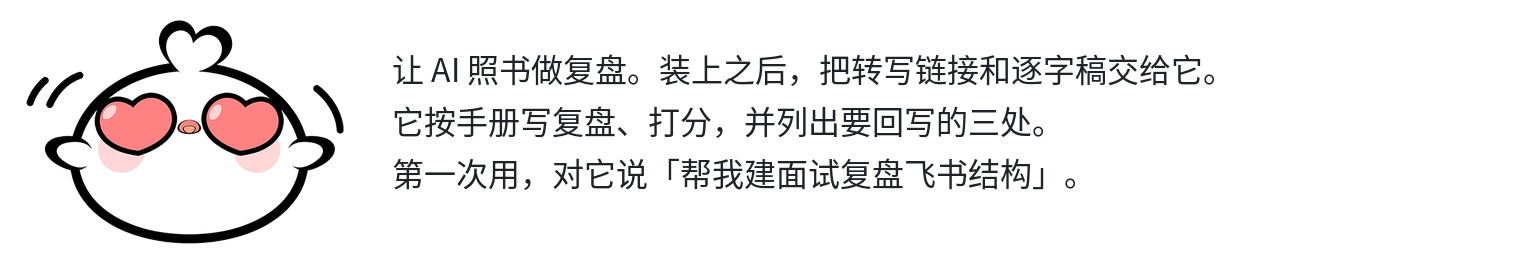
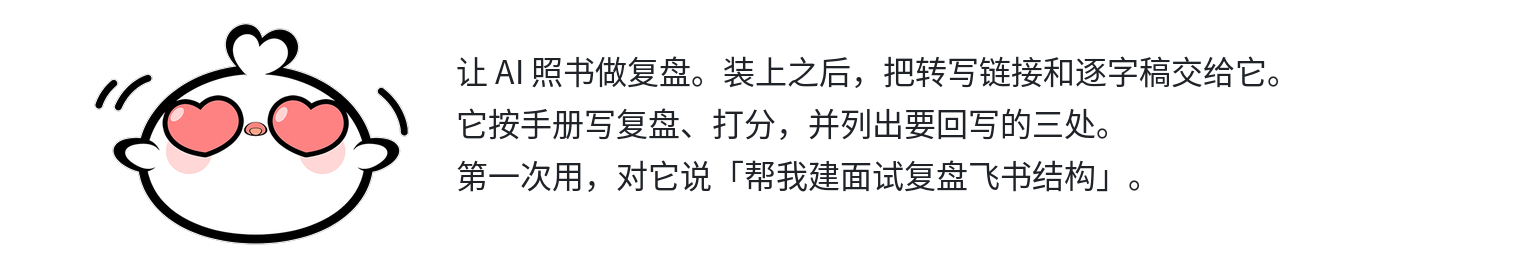
把几只鸽小包收成同样的身体大小
按鸽子身体的高度来缩放，不再按整张图的外框。睡觉的那只按整只的高度对齐，避免被子把身体缩得太小。

Changed region(s): [[0.0, 0.0606, 0.8349, 0.9394]]

diff --git a/README.md b/README.md
@@ -28,7 +28,7 @@
 </td></tr>
 </table>
 
-<img src="docs/images/mascot-rows/hi.png" width="760" alt="鸽小包在这儿。它是这本手册的吉祥物：一只白色、圆得像包子的鸽子。往下看：这套方法是什么、两条怎么开始的路、十五个飞书板块、一场面试从投递走到复盘，以及绿红黄三色框什么时候用。">
+<img src="docs/images/mascot-rows/hi.png" width="764" alt="鸽小包在这儿。它是这本手册的吉祥物：一只白色、圆得像包子的鸽子。往下看：这套方法是什么、两条怎么开始的路、十五个飞书板块、一场面试从投递走到复盘，以及绿红黄三色框什么时候用。">
 
 
 <img src="docs/images/divider.png" width="880" alt="">
@@ -69,7 +69,7 @@
 
 ## 快速开始
 
-<img src="docs/images/mascot-rows/yessir.png" width="760" alt="先把仓库放到本机，后面的命令都在仓库根目录执行。两条路线挑一条：路线 ① 不装任何东西，大多数同学用这条；路线 ② 给还想让助手往飞书里写的人。">
+<img src="docs/images/mascot-rows/yessir.png" width="764" alt="先把仓库放到本机，后面的命令都在仓库根目录执行。两条路线挑一条：路线 ① 不装任何东西，大多数同学用这条；路线 ② 给还想让助手往飞书里写的人。">
 
 
 ```bash
@@ -123,7 +123,7 @@ cd howtointerviewbetter
 
 ## 安装 Skill
 
-<a href="skills/interview-review/README.md"><img src="docs/images/mascot-rows/heart-eyes.png" width="760" alt="让 AI 照书做复盘。装上之后，把转写链接和逐字稿交给它。它按手册写复盘、打分，并列出要回写的三处。第一次用，对它说「帮我建面试复盘飞书结构」。"></a>
+<a href="skills/interview-review/README.md"><img src="docs/images/mascot-rows/heart-eyes.png" width="764" alt="让 AI 照书做复盘。装上之后，把转写链接和逐字稿交给它。它按手册写复盘、打分，并列出要回写的三处。第一次用，对它说「帮我建面试复盘飞书结构」。"></a>
 
 
 <img src="docs/images/skill-install.png" alt="Skill 安装位置：Claude Code 放在 .claude/skills，Codex 放在 .agents/skills，其他助手放在各自的 skills 目录或把 SKILL.md 贴进对话。要复制整份 interview-review 目录。" width="880">
@@ -496,7 +496,7 @@ flowchart LR
 
 ## 常见问题
 
-<img src="docs/images/mascot-rows/sleep.png" width="760" alt="先看这几条。脚本报错的对照表在下面。">
+<img src="docs/images/mascot-rows/sleep.png" width="764" alt="先看这几条。脚本报错的对照表在下面。">
 
 脚本报错的对照表在 <a href="skills/interview-review/feishu-app-setup.md#三常见报错对照">常见报错对照</a>。
 
@@ -575,10 +575,10 @@ flowchart LR
 如果这套复盘方法帮你拿到了面试或 offer，欢迎扫码请我喝杯咖啡，所有内容永久免费。
 
 <p><img src="docs/images/reward-qrcode.jpg" width="260" align="middle" alt="赞赏码">
-<img src="docs/images/mascot/gxb-offer.png" width="151" align="middle" alt="鸽小包"></p>
+<img src="docs/images/mascot/gxb-offer.png" width="193" align="middle" alt="鸽小包"></p>
 
 ## 商务合作
 
 📮 zsysabre@163.com
 
-<img src="docs/images/mascot-rows/big-heart.png" width="760" alt="看到这儿就可以去写下一场了。挑一两条先用起来就算数。">
+<img src="docs/images/mascot-rows/big-heart.png" width="764" alt="看到这儿就可以去写下一场了。挑一两条先用起来就算数。">
